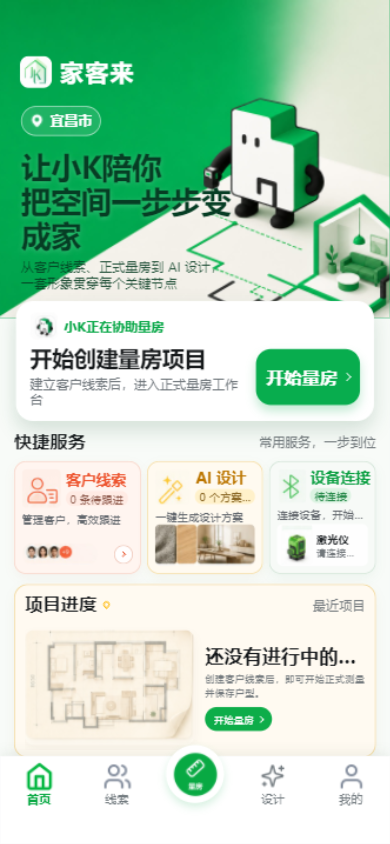
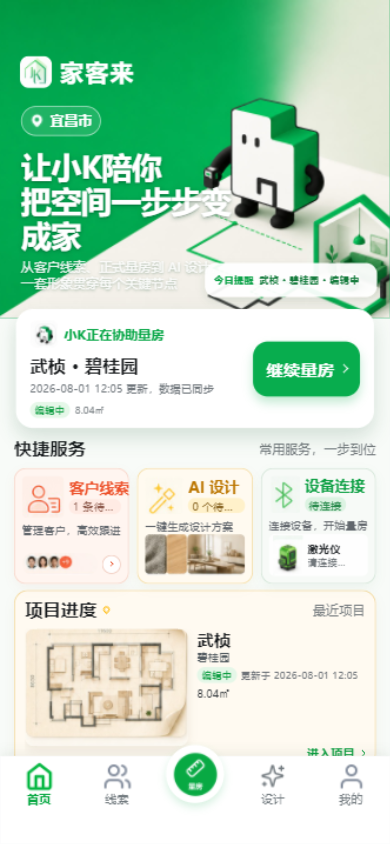
feat: surface lead identity in Mini Program project cards

Changed region(s): [[0.0308, 0.1848, 0.9846, 0.8934], [0.8, 0.8626, 0.8923, 0.8934]]

diff --git a/miniprogram/pages/index/index.js b/miniprogram/pages/index/index.js
@@ -58,15 +58,37 @@ function getRecentPlanStatus(status) {
   return { label: '编辑中', className: 'status-draft' };
 }
 
+function normalizeProjectLabel(value) {
+  return value === undefined || value === null ? '' : String(value).trim();
+}
+
 function buildRecentPlans(plans) {
   return (plans || []).slice(0, 3).map((plan, index) => {
     const statusMeta = getRecentPlanStatus(plan.status);
     const roomCount = Number(plan.roomCount);
     const area = Number(plan.area);
+    const customerName = normalizeProjectLabel(plan.customerName);
+    const communityName = normalizeProjectLabel(plan.communityName);
+    const fallbackName = normalizeProjectLabel(plan.name) || '未命名方案';
+    const displayName = [customerName, communityName].filter(Boolean).join(' · ') || fallbackName;
+    const updatedLabel = formatDateLabel(plan.updatedAt || plan.createdAt);
+    const progressLabel = Number.isFinite(area) && area > 0
+      ? `${area}㎡`
+      : Number.isFinite(roomCount) && roomCount > 0
+        ? `${roomCount} 个已闭合空间`
+        : `更新于 ${updatedLabel}`;
     return {
       _id: plan.id || plan._id,
-      name: plan.name || '未命名方案',
-      meta: formatDateLabel(plan.updatedAt || plan.createdAt),
+      name: fallbackName,
+      displayName,
+      customerName,
+      communityName,
+      meta: updatedLabel,
+      updatedLabel: `更新于 ${updatedLabel}`,
+      progressLabel,
+      measureSubtitle: statusMeta.className === 'status-completed'
+        ? '正式户型已完成，可查看与继续编辑'
+        : `${updatedLabel} 更新，数据已同步`,
       statusLabel: statusMeta.label,
       statusClass: statusMeta.className,
       roomCount: Number.isFinite(roomCount) && roomCount > 0 ? roomCount : 0,

diff --git a/admin/src/app/api/miniprogram/home/route.ts b/admin/src/app/api/miniprogram/home/route.ts
@@ -99,17 +99,28 @@ export async function GET(request: Request) {
               ? devices.findLatestAssignedToUser(staffId)
               : Promise.resolve(null),
           ]);
+        const recentPlansWithIdentity = await Promise.all(
+          recentPlans.map(async (plan) => {
+            const lead = await leads.findByFloorPlanId(plan.id);
+            return {
+              plan,
+              customerName: lead?.name || '',
+              communityName: lead?.communityName || '',
+            };
+          })
+        );
+
         return {
           savedPlans,
           measurementRecords,
           leadCount,
-          recentPlans,
+          recentPlans: recentPlansWithIdentity,
           device,
         };
       }
     );
 
-    const recentPlans = result.recentPlans.map((plan) => {
+    const recentPlans = result.recentPlans.map(({ plan, customerName, communityName }) => {
       const rooms = parseRooms(plan.layoutData);
       return {
         id: plan.id.toString(),
@@ -117,6 +128,8 @@ export async function GET(request: Request) {
         name: plan.name || '未命名方案',
         status: plan.status || 'draft',
         statusLabel: plan.status === 'completed' ? '已完成' : '编辑中',
+        customerName,
+        communityName,
         updatedAt: (plan.updatedAt || plan.createdAt).toISOString(),
         roomCount: rooms.length,
         area: calculateArea(rooms),

diff --git a/miniprogram/DESIGN.md b/miniprogram/DESIGN.md
@@ -159,6 +159,46 @@ measurable layout specification rather than broad visual inspiration.
 - Preserve the reference card proportions for loaded and empty states. Empty
   content may change wording and CTA, but must not expand, compress, or push a
   fixed action card under the custom TabBar.
+- For a formal-plan card, surface the real customer and community as the
+  project identity (`customer · community`) whenever the linked lead provides
+  them. A generated plan name and a date are fallbacks or secondary update
+  metadata, never the preferred primary identity.
+- A component's state must not silently alter its geometry. For the same
+  component across empty, active, completed, and loading states, preserve the
+  action's font size, line height, icon size, height, radius, alignment, and
+  visual treatment; vary only truthful copy, status semantics, and data. A
+  genuinely different treatment must be a separately named, reference-backed
+  component variant rather than an incidental state override.
+- Adapt height through the scroll container and the native safe area, not by
+  relocating a card's internal CTA based on remaining viewport whitespace.
+  Reference geometry is width-scaled in `rpx`; short and long devices reveal
+  different amounts of the scrollable page without changing component rhythm.
+- Equal-priority service cards use equal grid tracks, one shared outer inset,
+  and one shared inter-card gap. Do not make a device or utility card narrower
+  merely to enlarge a neighboring card; solve dense content with concise,
+  complete labels and local hierarchy instead.
+- Never truncate a business count or state into an ambiguous fragment such as
+  `3 个方…`. Use a concise complete label, or an intentional capped count such
+  as `99+`, before considering ellipsis.
+- Text-to-background contrast is a mandatory rule for every Mini Program
+  surface, not only Hero scenes. Verify every text treatment against its real
+  rendered background (including images, gradients, translucent overlays, and
+  state changes); do not accept a color because it works only on one region.
+  If shadow alone cannot preserve legibility, provide a local contrast surface
+  or change the text treatment rather than increasing shadow indefinitely.
+  A contrast treatment must protect the glyphs, not introduce a visible block
+  or band over an illustration; prefer a restrained text-only shadow or a
+  surface already justified by the composition. Do not use an outline unless
+  it is visibly present in the approved reference.
+- On a scenic Hero, choose display-text color from measured background contrast.
+  Where the approved reference calls for white display type, use white with a
+  restrained scene-tinted shadow and, where needed, a local contrast surface
+  for legibility across light spatial surfaces; do not substitute dark text
+  just because one background region is bright.
+- Split a compact project card's right column into a top information group and
+  a bottom information/action group, then distribute those two groups across
+  the card height. Do not vertically center an ungrouped stack. Its CTA aligns
+  to the card's existing right content inset in every state.
 - QA must include a stable real DevTools screenshot at `390x844`, shown
   side-by-side with the reference at the same scale. Complete a dedicated
   review pass for typography, painted icon size, vertical gaps, and crop

diff --git a/docs/miniprogram-system-modules.zh-CN.md b/docs/miniprogram-system-modules.zh-CN.md
@@ -26,7 +26,7 @@
 - 页面：`pages/index/index`。
 - API：`/api/miniprogram/home`、`/api/floorplans`、户型 POST/PUT、`/api/leads/[id]`、`/api/location/reverse`、`/api/users/me`。
 - 已实现：首页统计、定位/城市、按角色过滤的最近云端户型（本地草稿存在时仍显示，且可直接进入正式量房编辑器）、留资弹窗、BLE 连接状态、记忆设备自动连接、新建/继续正式量房、房间进入、企业员工常驻 AI 设计快捷入口，以及首页直达客户线索和 BLE 配对的快捷入口。
-- 数据边界：线索、正式户型、测量、已分配设备的统计和最近正式户型均来自 PostgreSQL RLS Repository。AI 生成域尚未迁移，因此 `aiGeneratedCases` 明确返回 `0`。
+- 数据边界：线索、正式户型、测量、已分配设备的统计和最近正式户型均来自 PostgreSQL RLS Repository。AI 生成域尚未迁移，因此 `aiGeneratedCases` 明确返回 `0`。最近户型项还会返回其真实关联线索可用的 `customerName` 和 `communityName`；首页优先以“客户名 · 小区名”作为项目身份信息，仅在二者缺失时回退到正式户型名称，时间戳只作为更新时间元数据展示。
 - 有限支持：写入/通知特征值的配对由硬件决定。BLE 调试日志会记录枚举到的通道属性、每一次命令写入及每一条带完整 Service/Characteristic UUID 的原始通知；接收缓冲区按通知通道隔离。厂商私有二进制回包仅保留为原始调试信息，确认协议映射前不赋予业务字段含义。
 - 视觉基准：以 `design-references/all-pages-ip-v1/01-home.png` 和 iPhone 13 Pro `390x844` 为首页基准。交付界面使用 F1/F3 空间服务向导首屏、上浮的正式量房卡、三张快捷服务卡和项目进度卡；本地派生场景素材为 `images/home-ip-v1/hero-scene-wechat-safe.jpg`，并为微信原生胶囊预留安全区，城市、统计、设备状态、最近户型、空状态和全部导航仍由真实数据及角色边界驱动。
 - 占位：帮助中心仍显示“即将上线”消息。

diff --git a/docs/miniprogram-system-modules.md b/docs/miniprogram-system-modules.md
@@ -59,7 +59,11 @@ utilities, and the admin APIs they call.
   and direct Home shortcuts to Leads and BLE pairing.
 - Data boundary: lead, formal-plan, measurement, and assigned-device counts plus
   recent formal plans come from PostgreSQL RLS repositories. The AI-generation
-  domain is not migrated yet, so `aiGeneratedCases` is explicitly `0`.
+  domain is not migrated yet, so `aiGeneratedCases` is explicitly `0`. Each
+  recent-plan item also exposes the linked lead's optional `customerName` and
+  `communityName`; Home presents `customer · community` as the preferred project
+  identity, falls back to the formal-plan name only when that identity is absent,
+  and presents timestamps only as update metadata.
 - Limited: the write/notify characteristic pairing is hardware-specific. BLE
   diagnostics log the discovered channel properties, each command write, and
   each raw notification with full service/characteristic UUIDs; receive buffers
